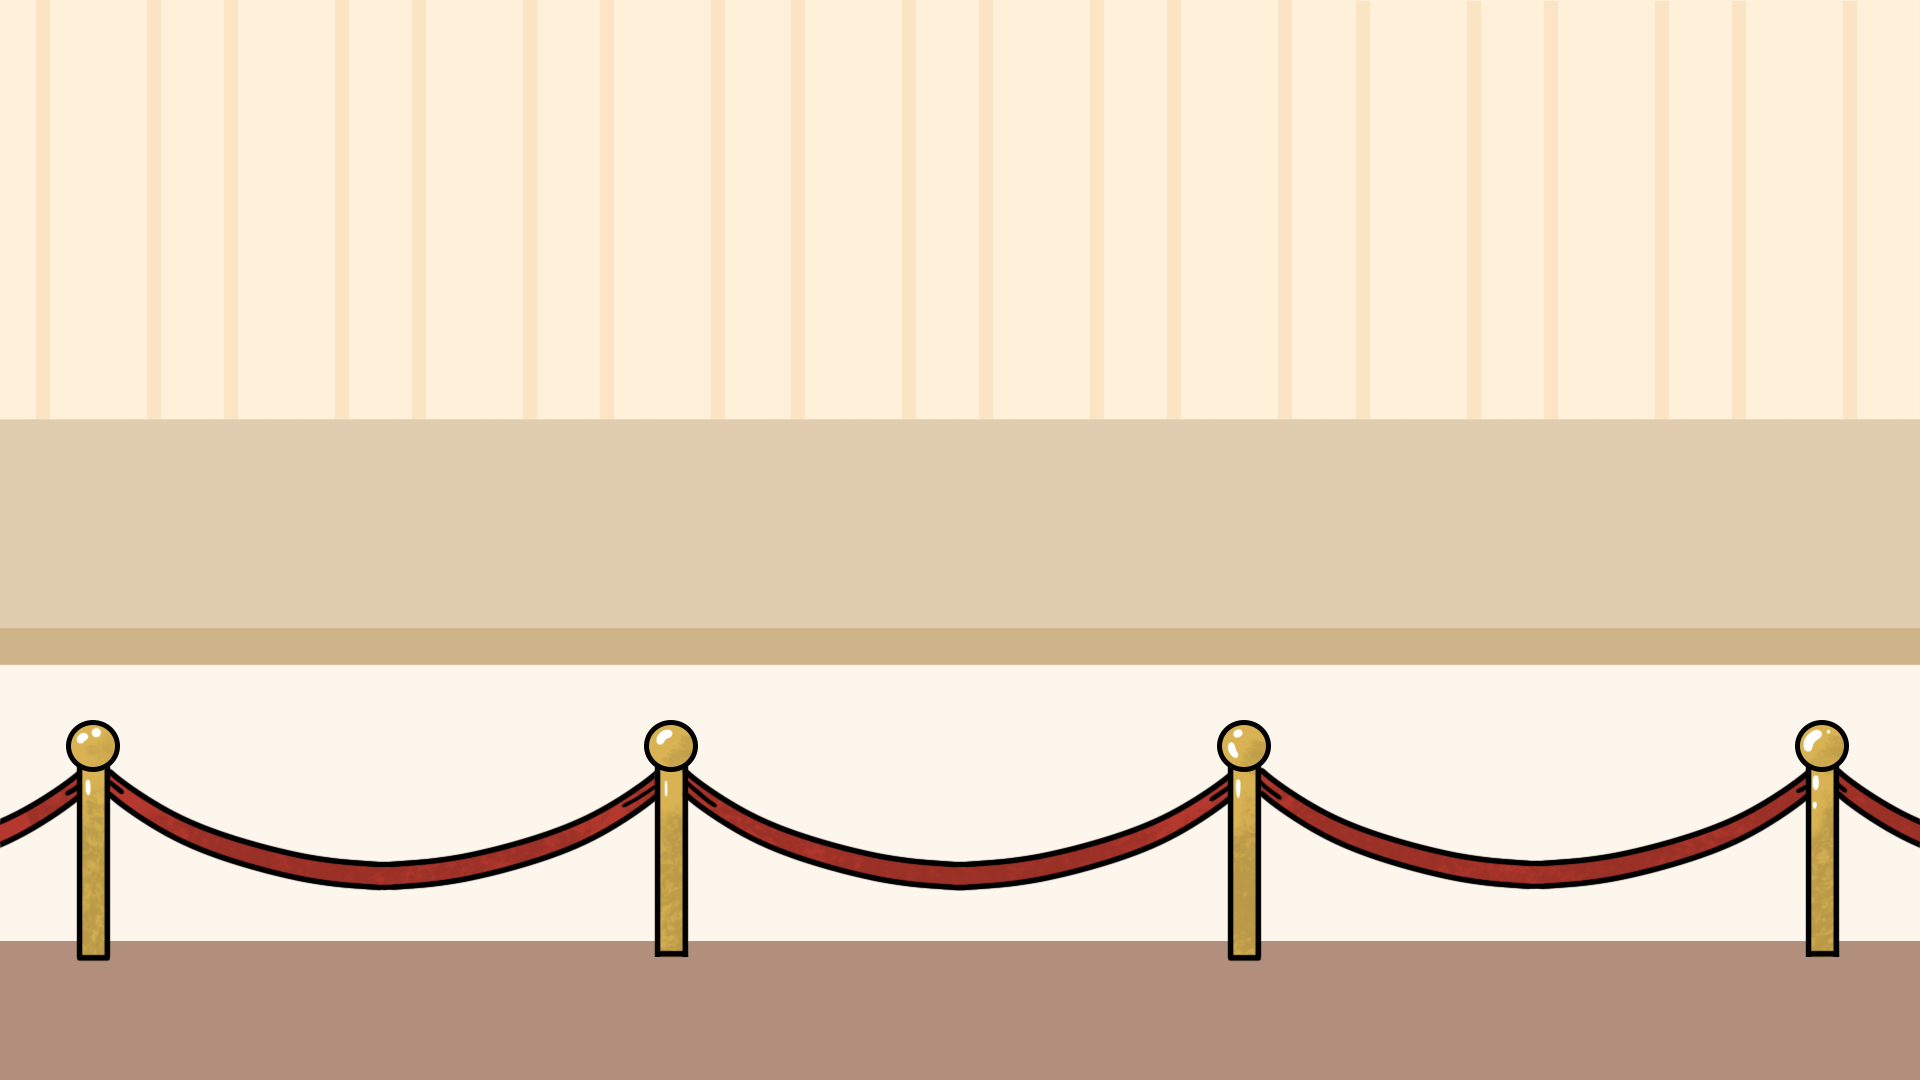
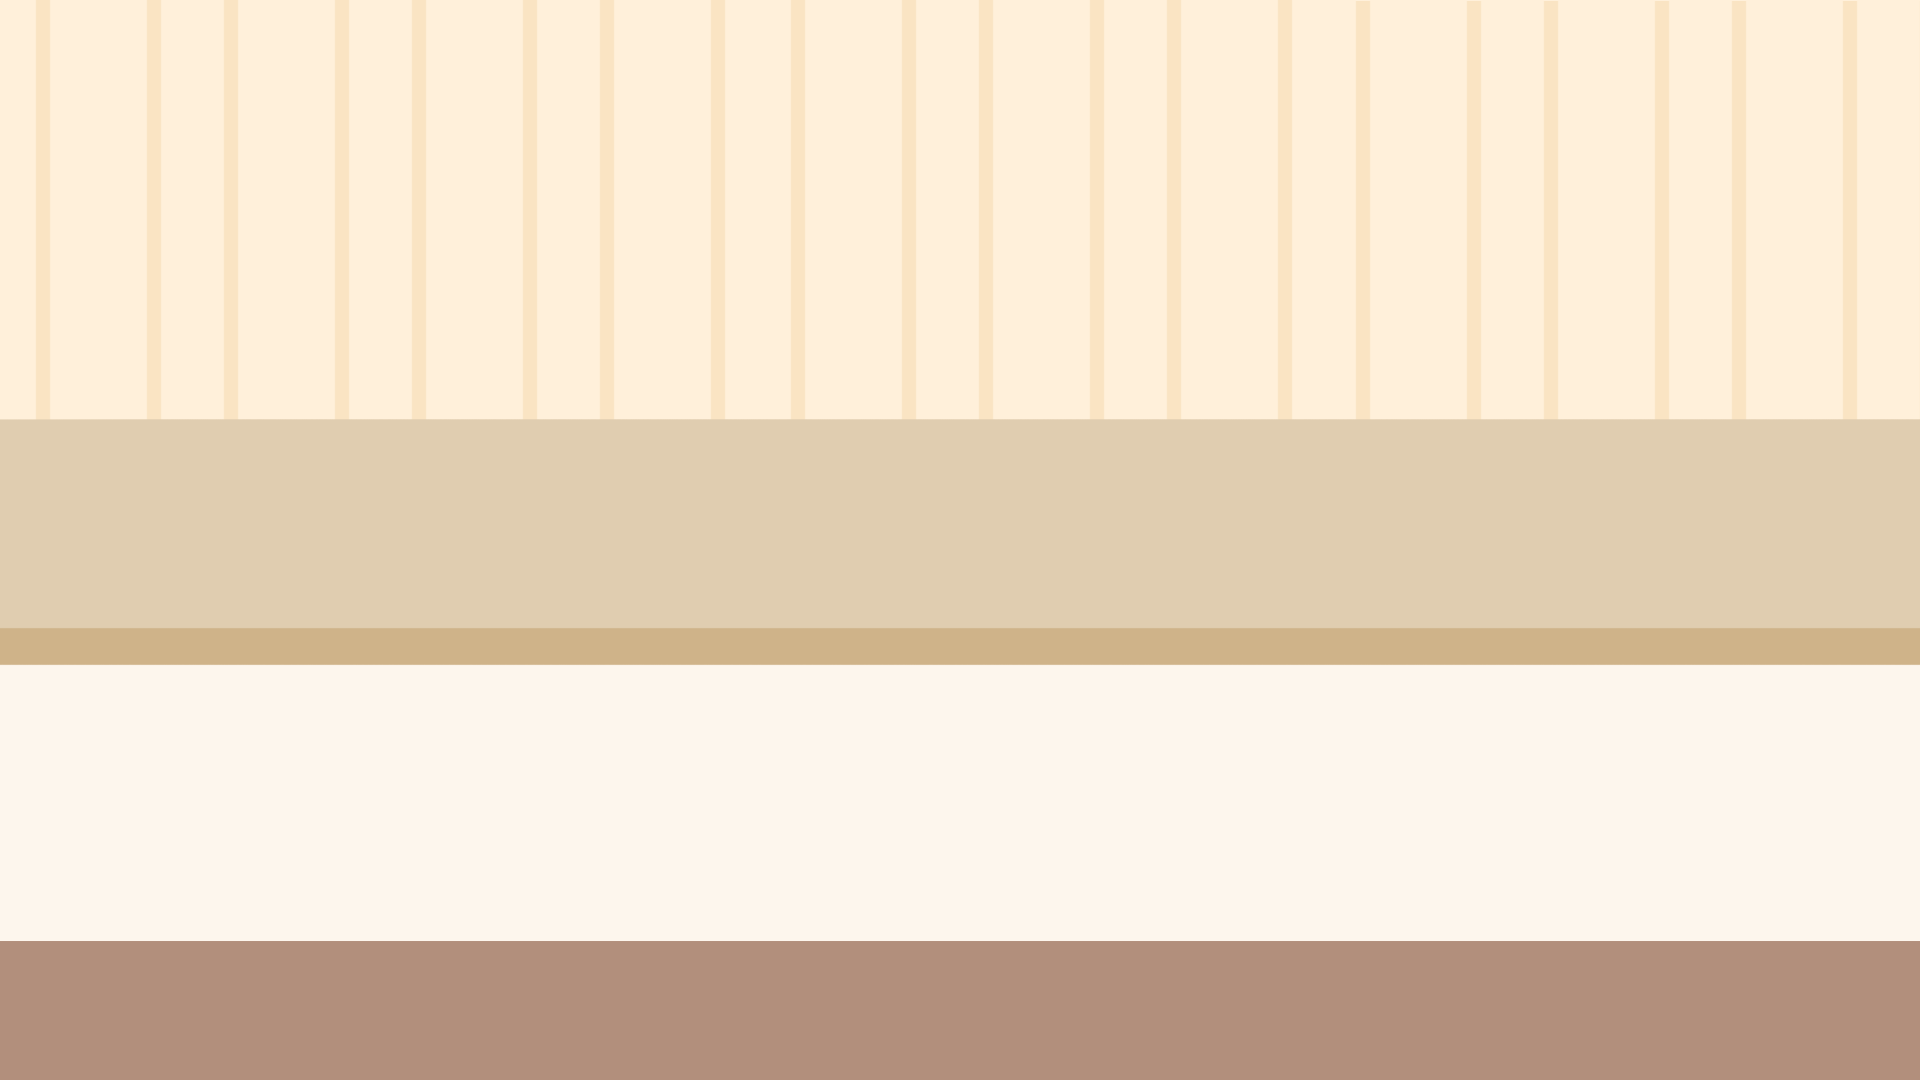
fence seperated

Changed region(s): [[0.0, 0.6722, 1.0, 0.8861]]

diff --git a/src/App.js b/src/App.js
@@ -2,12 +2,14 @@ import React from "react";
 import "./App.css";
 
 import RoomOne from "./components/pages/RoomOne";
+import Image from "./components/Image";
 
 function App() {
   return (
     <div className='App'>
       <span>EXTINCT ANIMALS MUSEUM</span>
       <RoomOne></RoomOne>
+      <Image className='fence' alt='fence' img='./assets/fence.png'></Image>
     </div>
   );
 }

diff --git a/src/components/image.css b/src/components/image.css
@@ -33,3 +33,6 @@ img:hover {
 #reasonLogo:hover {
   cursor: auto;
 }
+.fence:hover {
+  cursor: auto;
+}
